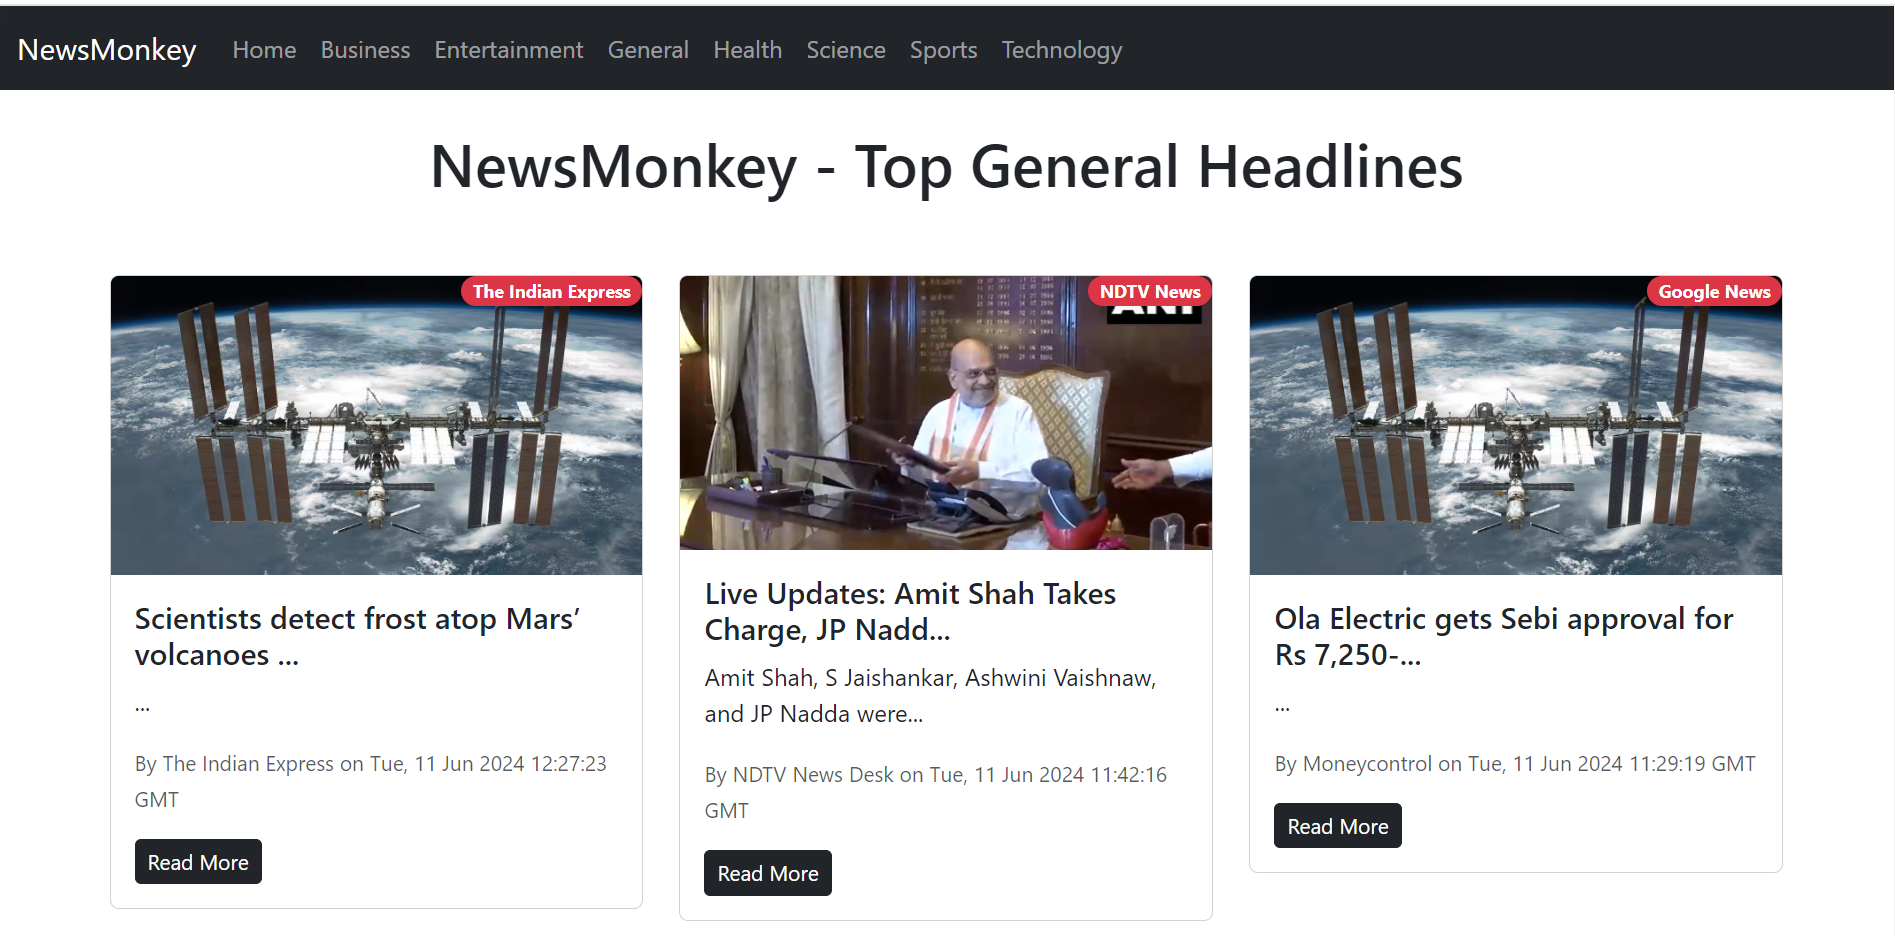
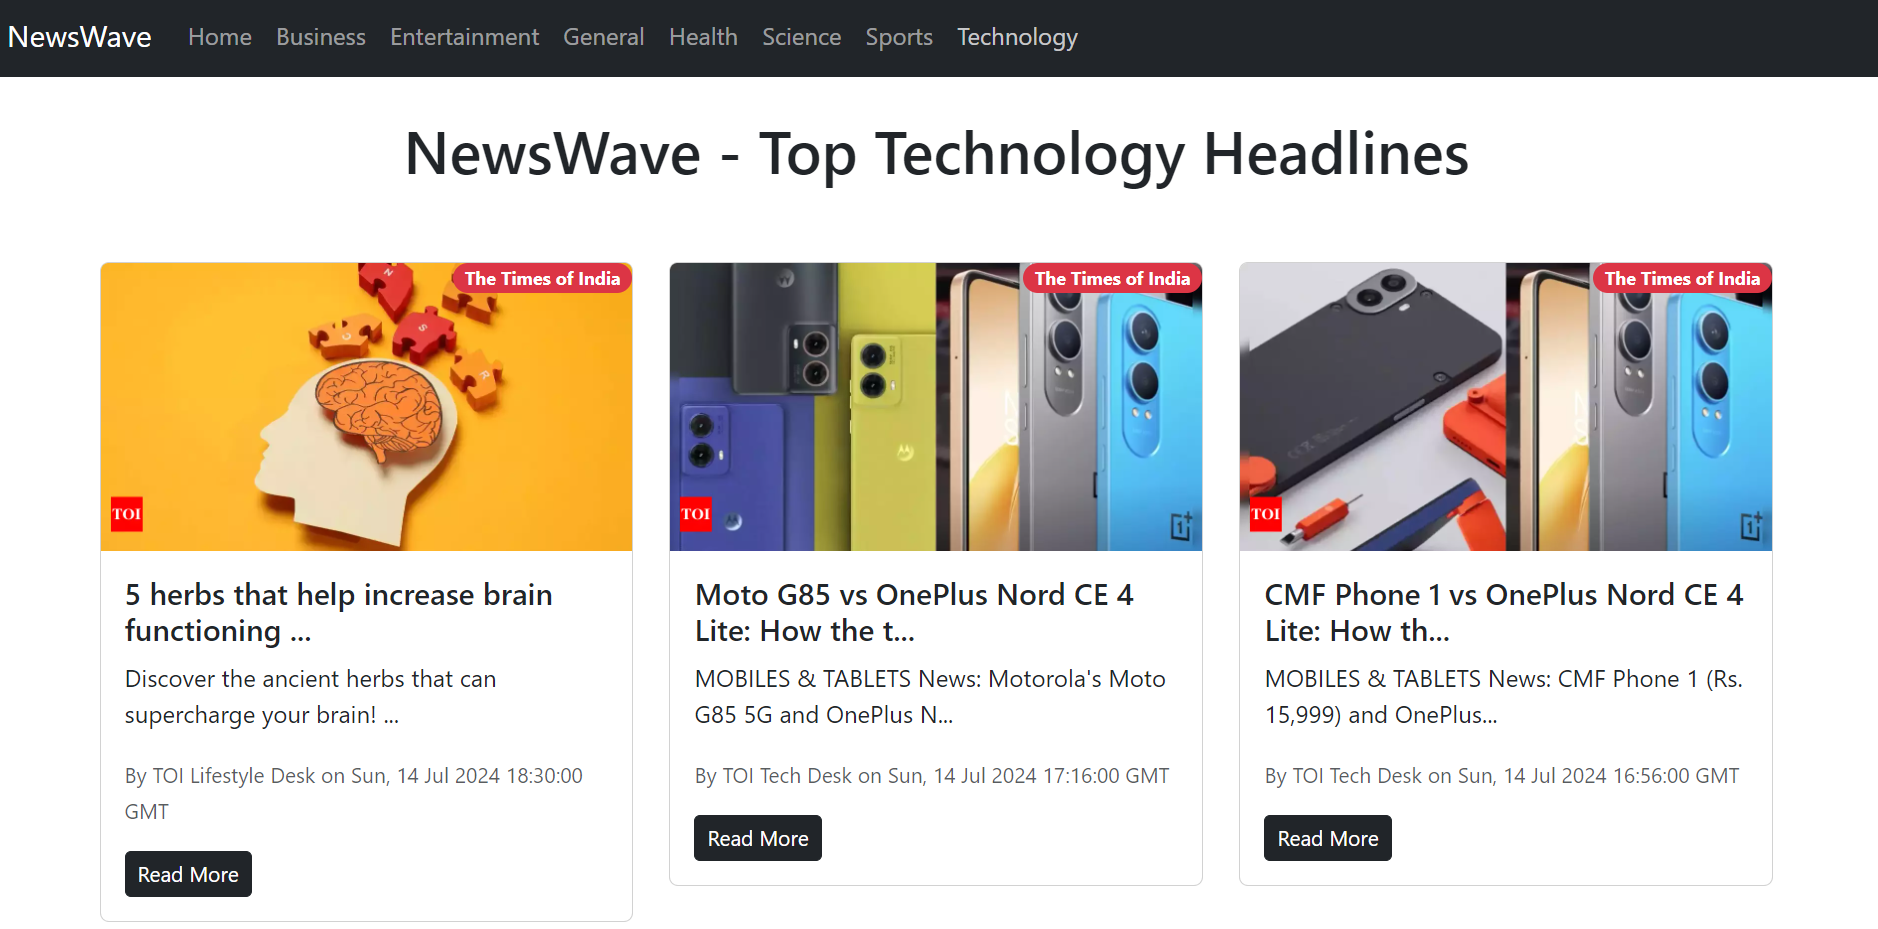
Updated files

diff --git a/src/components/Projects.jsx b/src/components/Projects.jsx
@@ -16,7 +16,7 @@ function Projects() {
       lLink: "https://chat-app-rohan.netlify.app/",
     },
     {
-      title: "News-Monkey",
+      title: "NewsWave",
       img: project2,
       gLink: "https://github.com/Marya45/NEWSAPP",
       lLink: "https://drive.google.com/file/d/1VkdcwRt9ZIvJdIvd2_ERSVuoWqLmgjz-/view?usp=sharing",
